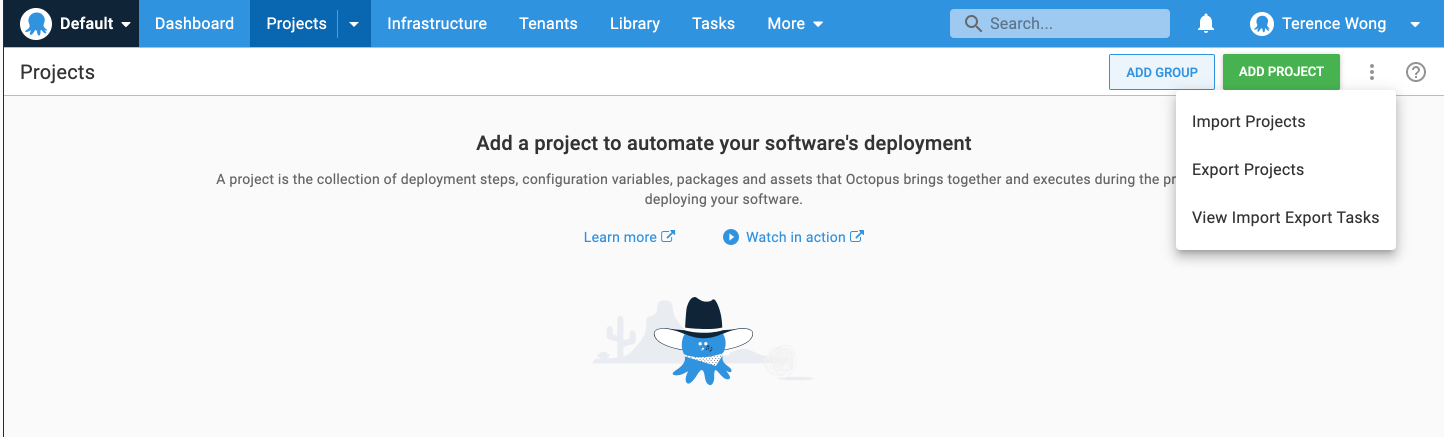
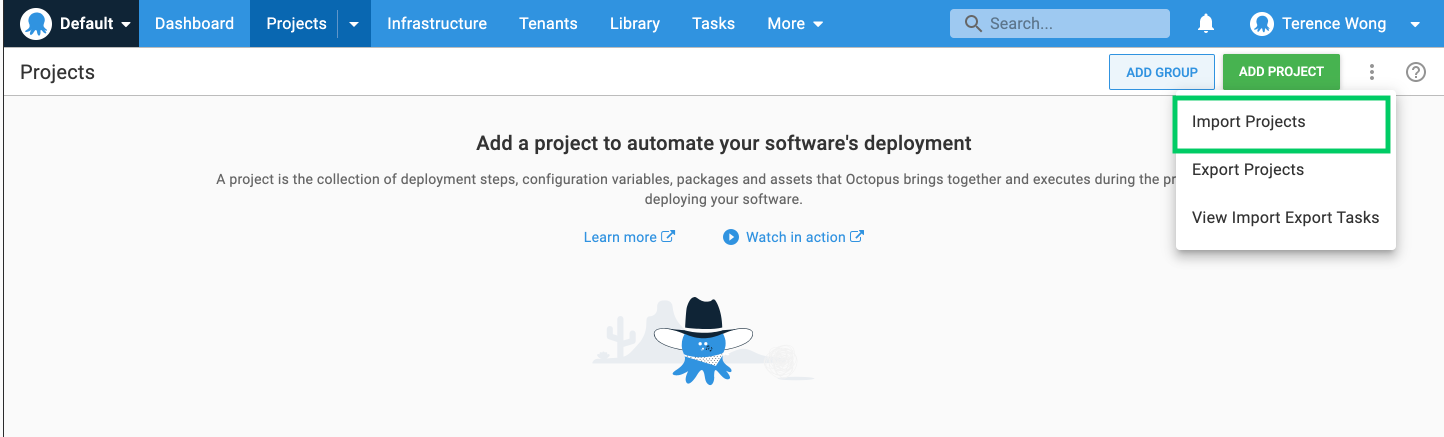
added green box to image

Changed region(s): [[0.8102, 0.2082, 0.9661, 0.357]]

diff --git a/blog/2021-07/importing-a-deployable-tutorial/importing-a-deployable-tutorial.md b/blog/2021-07/importing-a-deployable-tutorial/importing-a-deployable-tutorial.md
@@ -13,21 +13,21 @@ tags:
 
 Setting up your first deployment can be a challenging process. There are  new systems and many configurations that need to be set up. It can easily become overwhelming for first time users. This blog post is aimed at guiding you through this and reducing the difficulty in setting up your first project. We will do this by utilizing a new feature in Octopus Deploy 2021.1 named Project Bento. Project Bento is an import/export feature for projects that will automatically import many of the configurationsn needed to get a deployment working. You will use a previously exported project and deploy a sample application to an Azure web application. This applicationwill be visible to you and sharable with your company. The only prerequisite is a running Octopus Deploy instance, either in Octopus Cloud or self-hosted.
 
-These are the major steps necessary to enable the deployment to work
+These are the steps in Octopus Deploy to deploy the web application:
 
 1. Import an existing project
-2. Configure Azure account
+2. Configure an Azure account 
 3. Upload an existing package
 4. Adding deployment targets
 5. Deploy to Azure web application
 
 If you haven't set up an Octopus Deploy instance, please do so by selecting one of the following options:
 
-- [Octopus Cloud](https://octopus.com/start/cloud) &rightarrow; we host the Octopus Deploy instance for you, it connects to your servers.
-- [Self-hosted on a Windows Server](https://octopus.com/start/server) &rightarrow; you host it on your infrastructure by [downloading our MSI](https://octopus.com/downloads) and installing it onto a Windows Server with a SQL Server backend. Learn more about [our installation requirements](https://octopus.com/docs/installation/requirements).
-- [Self-hosted as a Docker container](https://octopus.com/blog/introducing-linux-docker-image) &rightarrow; you run Octopus Deploy in a docker container (currently EAP). You will still need a [free license](https://octopus.com/start/server).
+- [Octopus Cloud](https://octopus.com/start/cloud) -> we host the Octopus Deploy instance for you, it connects to your servers.
+- [Self-hosted on a Windows Server](https://octopus.com/start/server) -> you host it on your infrastructure by [downloading our MSI](https://octopus.com/download) and installing it onto a Windows Server with a SQL Server backend.  Learn more about [our installation requirements](/docs/installation/requirements.md).
+- [Self-hosted as a Docker container](https://octopus.com/blog/introducing-linux-docker-image) -> you run Octopus Deploy in a docker container (currently EAP).  You will still need a [free license](https://octopus.com/start/server).
 
-In this blog post, you are going to use an Azure web application as a deployment target for your application. For this, we need to set up a web application in Azure and link the account in Octopus Deploy.
+In this blog post, you are going to use an Azure web application as a deployment target for your application. Octopus Deploy works with many different types of deployment targets and Azure is one of them. The first step is to import an existing project to your new Octopus Deploy instance.
 
 ## Import an existing project
 
@@ -53,14 +53,15 @@ The password for this project is **html**
 
 ![Summary](summary-zip.png "Summary")
 
+The benefits of the `Export/Import Projects` feature is that you do not have to manually configure the environment and deployment steps of your project. Although this is a small project, some projects can be large and have complex deployment steps. Using the Export/Import feature ensures these steps are maintained across spaces.
 
-This step has now imported all of the relevant environments as well as the deployment steps required for the deployment. Although we have successfully imported the project, there are a few other items to configure. This is because exporting and importing a project does not capture the deployment targets or the required packages of the project. Deployment targets require a fresh connection on a new instance and packages are not captured to avoid extremely large files being part of the export process.
+ You have successfully imported the project, good work! There are just a few other items to configure. Exporting and importing a project does not capture the deployment targets or the required packages of the project. Deployment targets require a fresh connection on a new instance and packages are not captured to avoid extremely large files being part of the export process.
 
-## Configure Azure Account
+## Configure an Azure Account
 
 We need to configure an Azure account and web application to act as a target for Octopus Deploy to deploy to. We could also do this for other deployment targets such as AWS or locally, but for now we will use Azure.
 
-Navigate to the Azure [portal](https://portal.azure.com/) to create an account in Azure. 
+- Navigate to the Azure [portal](https://portal.azure.com/) to create an account in Azure. 
 
 ### Create an Azure Service Principal with the Azure Portal {#create-service-principal-account-in-azure}
 
@@ -80,25 +81,24 @@ You now have the following:
 
 Next, you need to configure your [resource permissions](#resource-permissions).
 
-## Resource permissions {#resource-permissions}
+### Resource permissions {#resource-permissions}
 
-The final step is to ensure your registered app has permission to work with your Azure resources.
+Resource permissions ensure your registered app has permission to work with your Azure resources.
 
 1. In the Azure Portal navigate to **Resource groups** and select the resource group(s) that you want the registered app to access.
 2. Next, select the **Access Control (IAM)** option and if your app isn't listed, click **Add**. Select the appropriate role (**Contributor** is a common option) and search for your new application name. Select it from the search results and then click **Save**.
 
+Next, you will set up an [Azure web application](#web-application-setup) and configure its properties.
 
-Next, you will set up an Azure Web Application and configure its properties
-
-## Web Application Setup {#web-application-setup}
+### Web application setup {#web-application-setup}
 
 1. In **Resource groups** click Create to create a Windows Node Application.
-2. Once the web app is setup, route the path of the web application to default to the home path by navigating to **{{Configuration, Path Mappings, Virtual applications and directories}}
-3. Set the Physical path to site\wwwroot\guide and the Virtual Path to \ 
+2. Once the web app is setup, route the path of the web application to default to the home path by navigating to **{{Configuration, Path Mappings, Virtual applications and directories}}**
+3. Set the Physical path to ```site\wwwroot\guide``` and the Virtual Path to ```\``` 
 
 Now, you can [add the Service Principal Account in Octopus](#add-service-principal-account).
 
-## Add the Service Principal account in Octopus {#add-service-principal-account}
+### Add the Service Principal account in Octopus {#add-service-principal-account}
 
 Now that you have the following values, you can add your account to Octopus:
 
@@ -123,7 +123,9 @@ Now that we have the Azure account set up in Azure and Octopus deploy we can add
 
 ## Upload an existing package
 
-The following is a the package that you will be using to deploy with Octopus Deploy:
+The web application we are deploying requires some code to deploy. Octopus Deploy makes this code available to deployment targets through packages. A package is some code that will deploy to a target. In this case it will be a deployable tutorial that your web application can display.
+
+The following is the package that you will be using to deploy with Octopus Deploy:
 
 > [guide.1.0.0.zip](https://octopus.com/images/docs/hello-world.1.0.0.zip)
 
@@ -134,7 +136,6 @@ You can manually upload that package to the Octopus built-in repository in the O
 1. Select the package you want to upload and click **UPLOAD**.
 
 In the next step we will set up the deployment target that the application will be deployed to.
-
 
 ## Adding deployment targets
 
@@ -148,17 +149,15 @@ With Octopus Deploy, you can deploy software to Windows servers, Linux servers, 
 
 ![Azure Web App Settings](azure-web-app-settings.png "Azure Web App Settings")
 
-In the next step we will set up the Azure account that the application will be deployed to.
-
 ## Deploy to Azure Web Application
 
 Now that we have imported a project, set up the Azure account, set up the deployment target and uploaded the package, everything is set for the deployment. 
 
-1. Go to Projects &rightarrow; HTML &rightarrow; create release and step through to deploy
+1. Go to **{{Projects, HTML, create release}}** and step through to deploy the web application to Azure.
 
 ![Deploy Success](deploy-success.png "Deploy Success")
 
-The web application should now be deployed to your Azure Web Application. Check by going to [your-site].azurewebsites.net where you will see the following page:
+Upon success, the web application should now be deployed to your Azure Web Application. Check by going to [your-site].azurewebsites.net where you will see the following page:
 
 ![Deployed Application](deployed-application.png "Deployed Application")
 
